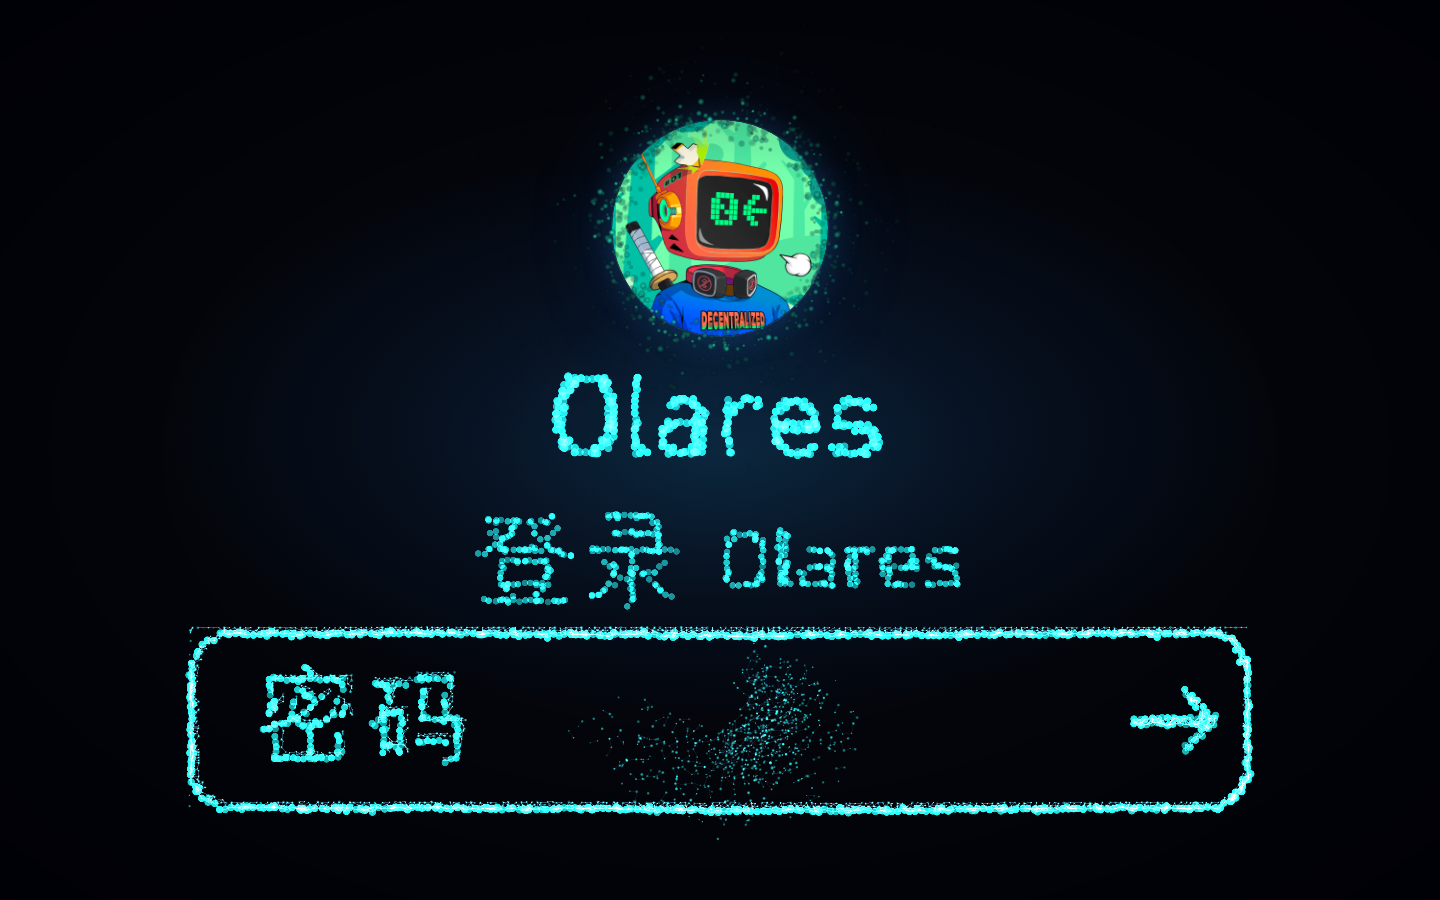
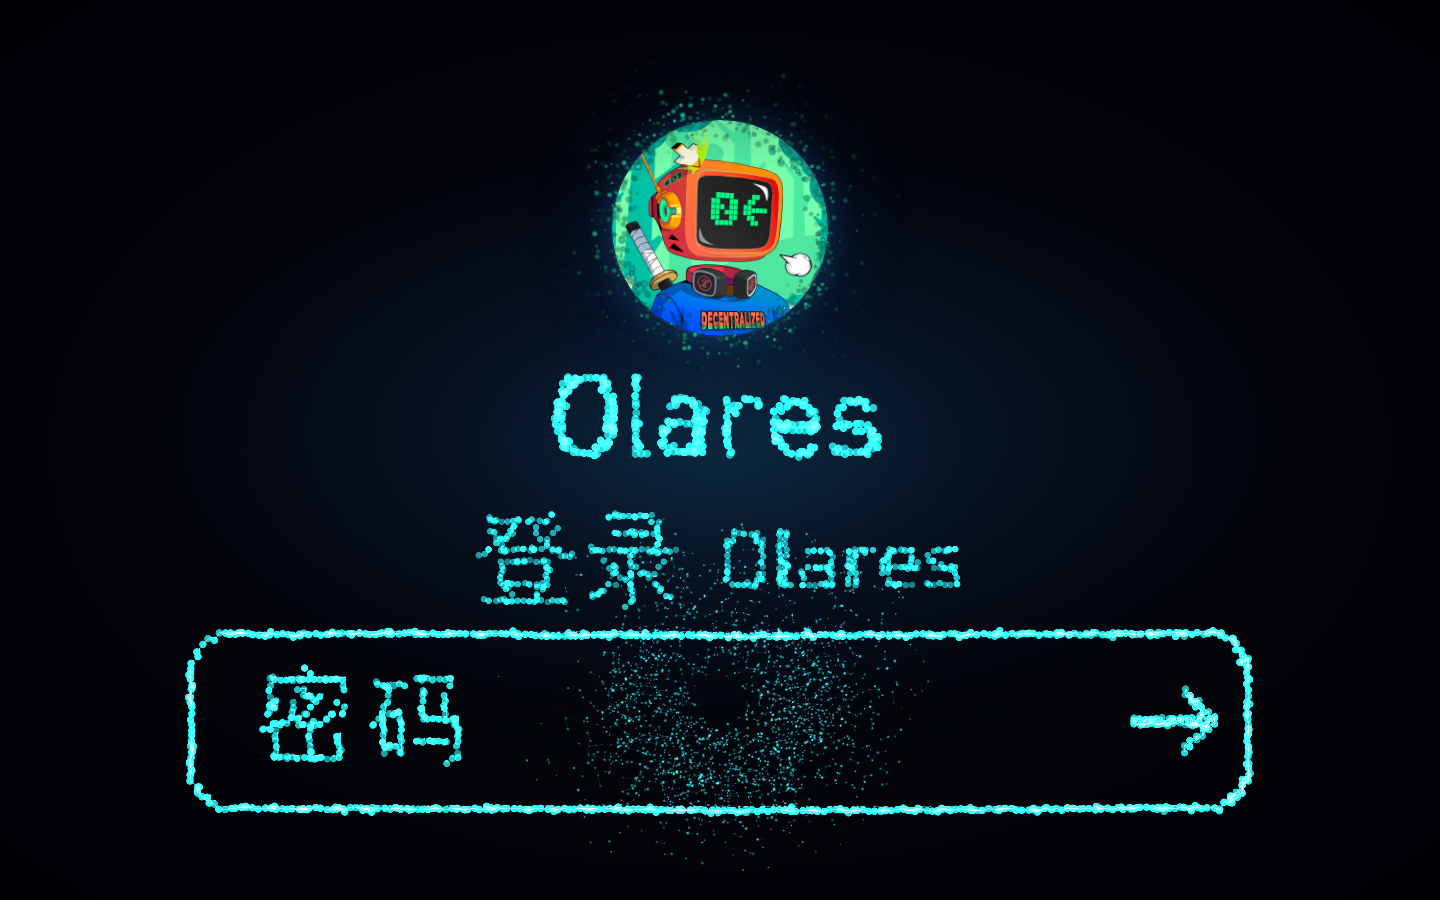
fix(auth): 灌注后不再"描出控件外框"
三个独立原因叠在一起：

1. **扫描区裁窄导致覆盖率虚高**（真 bug）。scanIn 的 xx0 取 max(x0, 格边界)，
   而 scanPart 的 x0 = 矩形 - pad 通常落在格子中间，第一格只剩不到 1px 宽；
   分母被裁小后，边缘 1 个抗锯齿像素 = 100% 覆盖 → 整列/整行点亮。
   实测 hint 的首列有 43 个点（其他列 1~11 个），屏幕上就是矩形左边那条竖线。
   改成按**整格面积**算覆盖率（scanPart 前已 clearRect，只画了当前控件，
   放宽到整格不会吸到相邻控件的墨）。

2. **线条类的槽位不该加密**。细格 1.17 对 lineWidth 2.4 的边框是 2.05 格，
   无论阈值怎么调都会点亮 2 行，边框凭空粗一圈。线条类改用骨架格取槽位
   （与骨架点重合，只叠亮度），面状文字才用细格填笔画内部空隙。

3. **槽位不该半格交错**。off = CELL_R×scale×0.5 ≈ 3 屏幕 px，把一个 5.96px 的点
   压在骨架点旁边，视觉宽度撑到 9px。线条类 off = 0。

另外槽位亮度按角色分档：边框（role 3）在骨架里本就比文字暗一级，
灌注时一律提到 1.15 会让它反超文字 = "把框描出来"。边框槽位取 0.72。

diff --git a/auth/src/ui.js b/auth/src/ui.js
@@ -34,7 +34,8 @@ export const CELL = 2.5;
 /* 增援层用更密的网格：(2.5/1.35)² ≈ 3.4 倍槽位，悬停的控件才会明显变实 */
 export const CELL_R = 1.35;
 const TH = 0.45;     // 原型 SCAN_TH
-const TH_R = 0.36;
+/* 增援细网格的覆盖率阈值（比骨架略低，细笔画才不至于整条丢失） */
+const TH_R = 0.45;
 
 const CX = LW / 2;
 
@@ -178,7 +179,7 @@ export function partAt(lx, ly) {
 
 /* 容量系数：线条类灌满更亮（一维结构越密越像实线），大段文字低一点
    （字怀本来就靠暗缝成立，灌太满会糊回去）。和原型的分档一致。 */
-export const CAPK = { button: 0.5, input: 0.48, name: 0.34, hint: 0.34 };
+export const CAPK = { button: 0.75, input: 0.75, name: 0.34, hint: 0.34 };
 /* 为什么不是 1：灌到 1 时 2400 颗全进控件，指针周围一颗旋转的都不剩 ——
    而"大量旋转的粒子"本身就是原型的一半观感。留一半在指针周围转，
    灌进去的那一半把控件填实，这才是"随鼠标移动、同时增加到附近组件上"。 */
@@ -326,11 +327,18 @@ function scanIn(d, W, H, sat, cell, th, x0, y0, x1, y1, withKey) {
   const cy0 = Math.floor(y0 / cell), cy1 = Math.ceil(y1 / cell);
 
   for (let cy = cy0; cy < cy1; cy++) {
-    const yy0 = Math.max(y0, Math.round(cy * cell));
+    /* 覆盖率必须按**整格面积**算。
+       scanPart 的扫描区是「控件矩形 ±pad」，起止点通常落在格子中间；
+       如果按 y0/x0 裁掉格子的半边（max(y0, ·)），分母就只剩不到 1px，
+       那么边缘的 1 个抗锯齿像素会被算成 100% 覆盖 → 整列/整行点亮，
+       屏幕上就是控件外框那条「凭空多出来的边」。
+       画布上此刻只画了当前这一个控件（scanPart 先 clearRect），
+       所以放宽到整格不会吸到相邻控件的墨。 */
+    const yy0 = Math.max(0, Math.round(cy * cell));
     const yy1 = Math.min(H, Math.round((cy + 1) * cell));
     if (yy1 <= yy0) continue;
     for (let cx = cx0; cx < cx1; cx++) {
-      const xx0 = Math.max(x0, Math.round(cx * cell));
+      const xx0 = Math.max(0, Math.round(cx * cell));
       const xx1 = Math.min(W, Math.round((cx + 1) * cell));
       if (xx1 <= xx0) continue;
 
@@ -382,9 +390,12 @@ export function scanPart(ctx, s, id, scale) {
 
   const d = ctx.getImageData(0, 0, W, H).data;
   const sat = buildSat(d, W, H);
-  /* 槽位坐标要跟骨架落在同一个世界坐标里，所以这里用同一个 scale；
-     但 cell 仍按逻辑 px 取 → 屏幕上大约 1.35×scale CSS px 的密度。 */
-  const cell = CELL_R / Math.max(0.72, Math.min(1.15, scale));
+  /* 线条类（边框 / 箭头）**用骨架格**取槽位：槽位正好落在骨架点上，
+     灌注只是把那一颗点叠亮。细格在这里是有害的 —— 线宽 2.4 跨 2.05 个细格，
+     无论怎么写都会点亮 2 行，边框看起来就"凭空粗了一圈"。
+     面状控件（文字）才用细格加密，因为文字的笔画内部有空隙可以填。 */
+  const contour = id === 'input' || id === 'button';
+  const cell = contour ? CELL : CELL_R / Math.max(0.72, Math.min(1.15, scale));
   const pad = 2;
   return scanIn(
     d, W, H, sat, cell, TH_R,

diff --git a/auth/src/field.js b/auth/src/field.js
@@ -649,7 +649,12 @@ export class Field {
     });
 
     this.cMode.fill(0);
-    const off = CELL_R * scale * 0.5;   // 半格交错：不叠在骨架点上，而是均匀加密
+    /* 半格交错只对**面状**控件（文字）有意义：让增援点落在骨架点之间，均匀加密。
+       线条类（边框/箭头）绝不能交错 —— 骨架点是 5.96px 的圆点，再在旁边 3px 处
+       压一个同样的点，视觉宽度直接撑到 9px，看起来就是"灌注后凭空描了一圈粗边"。
+       所以 contour 类 off = 0，与骨架点重合，只叠亮度、不改粗细。 */
+    const contour = id === 'input' || id === 'button';
+    const off = contour ? 0 : CELL_R * scale * 0.5;
     for (let k = 0; k < useCount; k++) {
       const pi = arr[k];
       /* 槽位是等距抽样分配的：M 可能大于或小于 useCount，都均匀铺开 */
@@ -957,7 +962,11 @@ export class Field {
       /* 槽位粒子更亮（正好压在笔画上，是"充能"）；公转粒子是光尘 */
       /* 槽位：压在笔画上 → 亮；公转：光尘。指针在时公转粒子收得很紧，
          太亮会糊成一团脏斑，压到 0.55；待机星尘散得开，0.72 才看得见 */
-      const base = this.cMode[i] === 1 ? 1.15 : (this.ptr.on ? 1.0 : 0.30);
+      /* 槽位粒子的亮度按角色分档：边框（role 3）本身在骨架里就比文字暗一级
+         （ROLE_A 0.70 vs 0.88），灌注时不能一视同仁提到 1.15 —— 那会让边框
+         比文字还亮，看起来像"把控件外框描了出来"。 */
+      const slotA = this.cRole[i] === 3 ? 0.72 : 1.15;
+      const base = this.cMode[i] === 1 ? slotA : (this.ptr.on ? 1.0 : 0.30);
       this.cAlpha[i] = this.cAmp[i] * base * this.cFade[i] * burst * this.gainC;
     }
 
